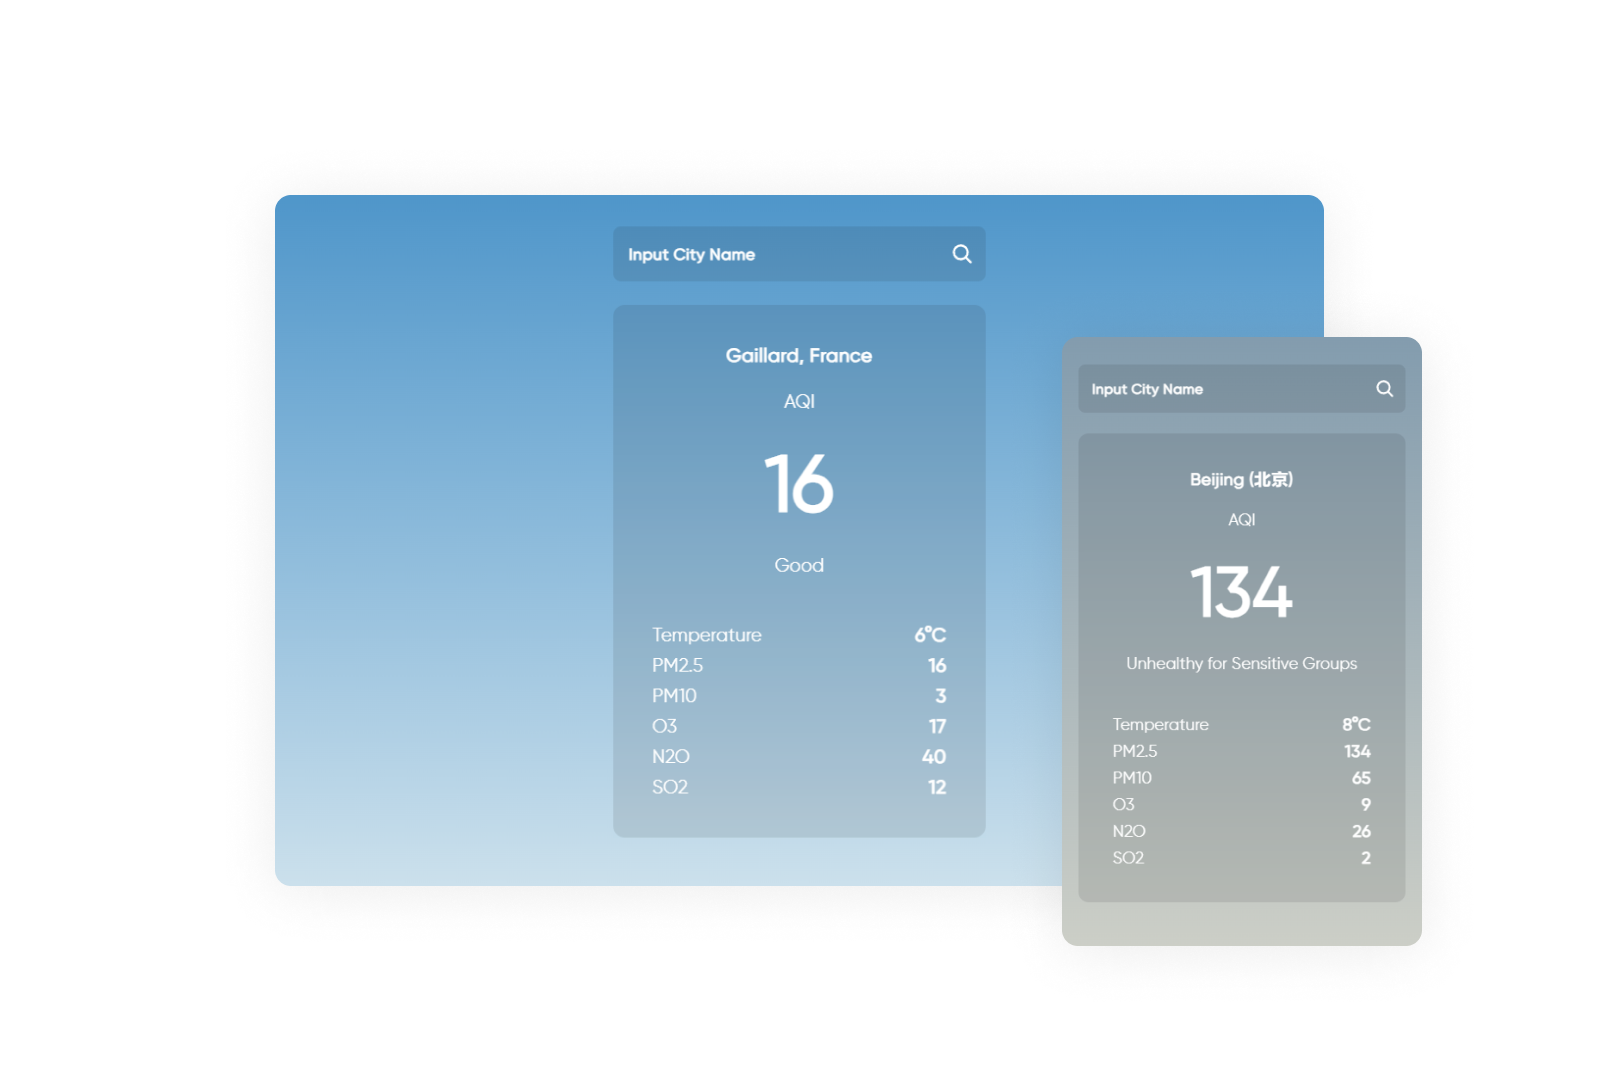
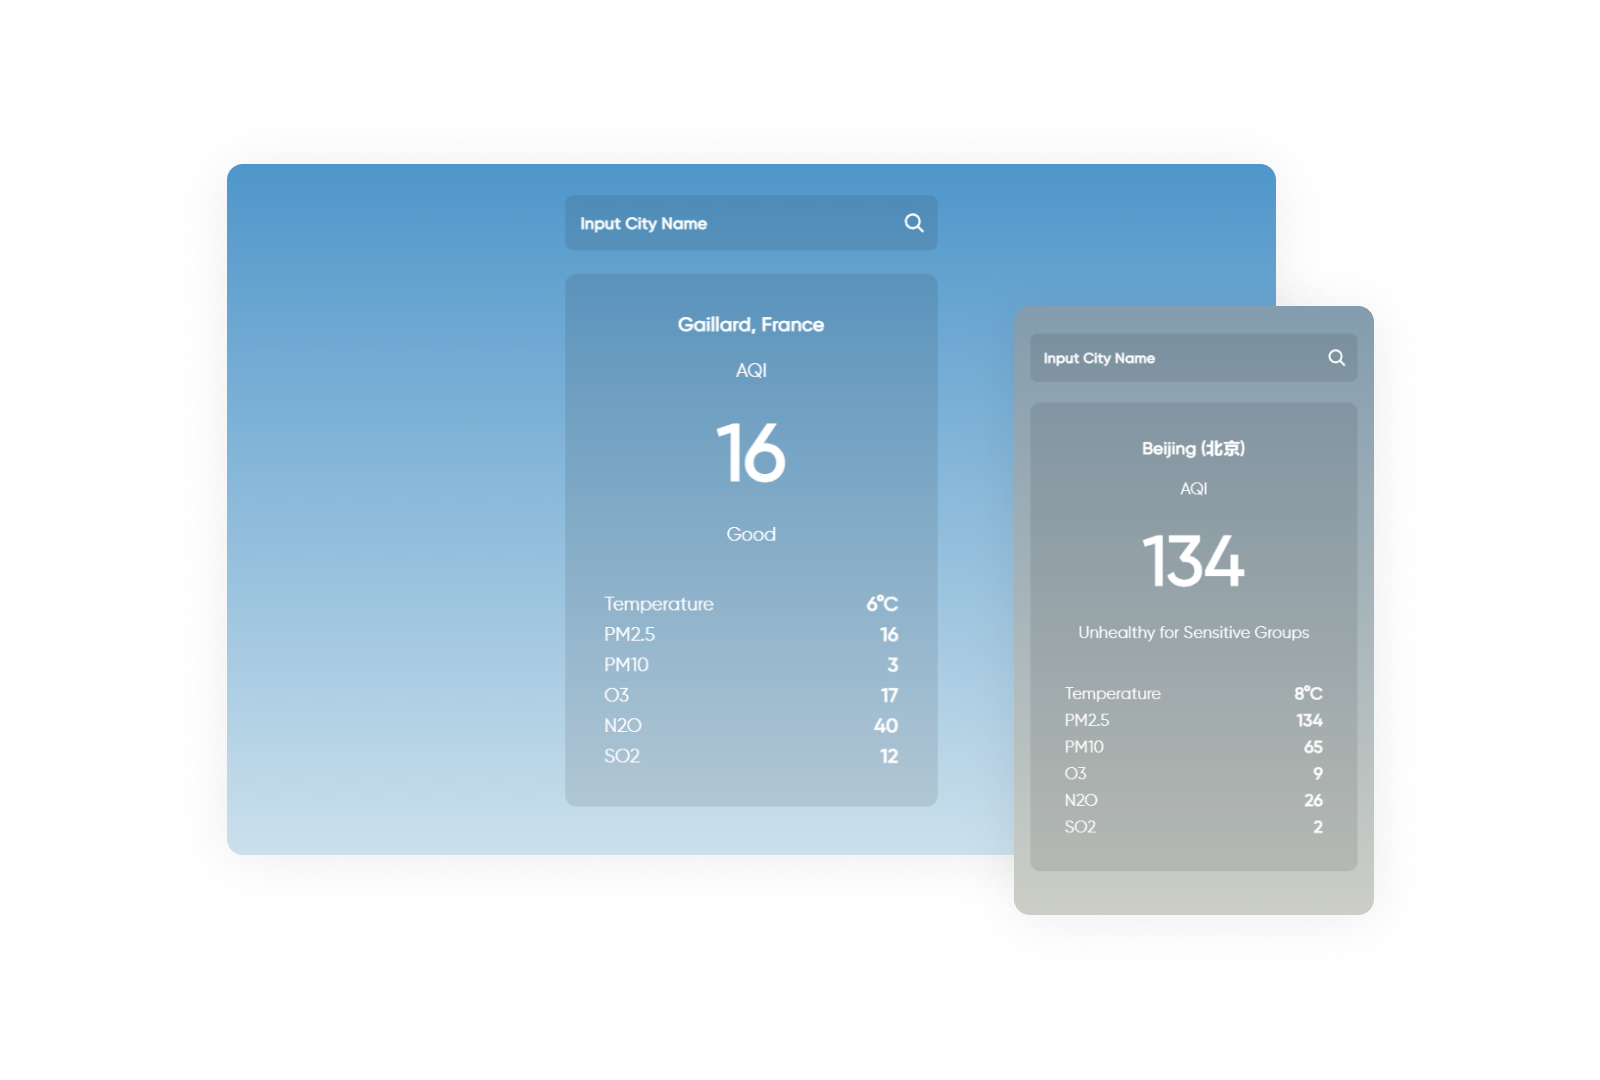
Update Flint

diff --git a/style.css b/style.css
@@ -411,6 +411,31 @@ button{
     transition: 400ms cubic-bezier(0.4, 0.0, 0.2, 1);
 }
 
+/* Text Banner */
+.textBanner{
+    display: flex;
+    justify-content: center;
+    align-items: center;
+    text-align: center;
+    flex-direction: column;
+    gap: 1rem;
+    padding: 8vh 8vw 0 8vw;
+}
+.textBanner h1{
+    font-size: 3rem;
+}
+
+.textBanner p{
+    font-size: 1.25rem;
+    color: var(--color-secondary)
+}
+
+/* Custom Text Banner Styling */
+.textBanner.invest{
+    background-color: #F8F9FB;
+}
+
+
 /* Hero Banner styling */
 
 .heroBanner{

diff --git a/invest.html b/invest.html
@@ -59,11 +59,12 @@
 
     <div class="progress-bar invest"></div>
 
+    <div class="textBanner invest">
+        <h1>All-in-One Investing Partner</h1>
+        <p>Save, Spend & Invest starting $1 or ฿50</p>
+    </div>
+
     <div class="heroBanner">
-        <div class="projectIntro invest">
-            <img src="Asset-UX/invest/logo.svg" alt="Flint Logo">
-            <p>Your Investing Partner.</p>
-        </div>
         <picture>
             <source
             srcset="Asset-UX/invest/Banner_Mobile.webp"

diff --git a/index.html b/index.html
@@ -94,7 +94,7 @@
             <div class="project-text">
                 <div>
                     <h1>Flint</h1>
-                    <p>Stocks Investing Made Easy</p>    
+                    <p>Save, Spend & Invest All in One App</p>    
                 </div>
                 <div class="explore-button-icon">
                     <button class="explore">View Project</button>

diff --git a/playground.css b/playground.css
@@ -4,7 +4,8 @@
 }
 .project-image.aqi img{
     object-fit: cover;
-    height: 80%;
+    height: auto;
+    width: 100%;
 }
 
 /* Playground - Todo List  */
@@ -22,7 +23,7 @@
     width: 100%;
 }
 .project-image.calculator img{
-    padding: 4rem;
+    padding: 3rem;
     width: auto;
     height: 100%;
 }
